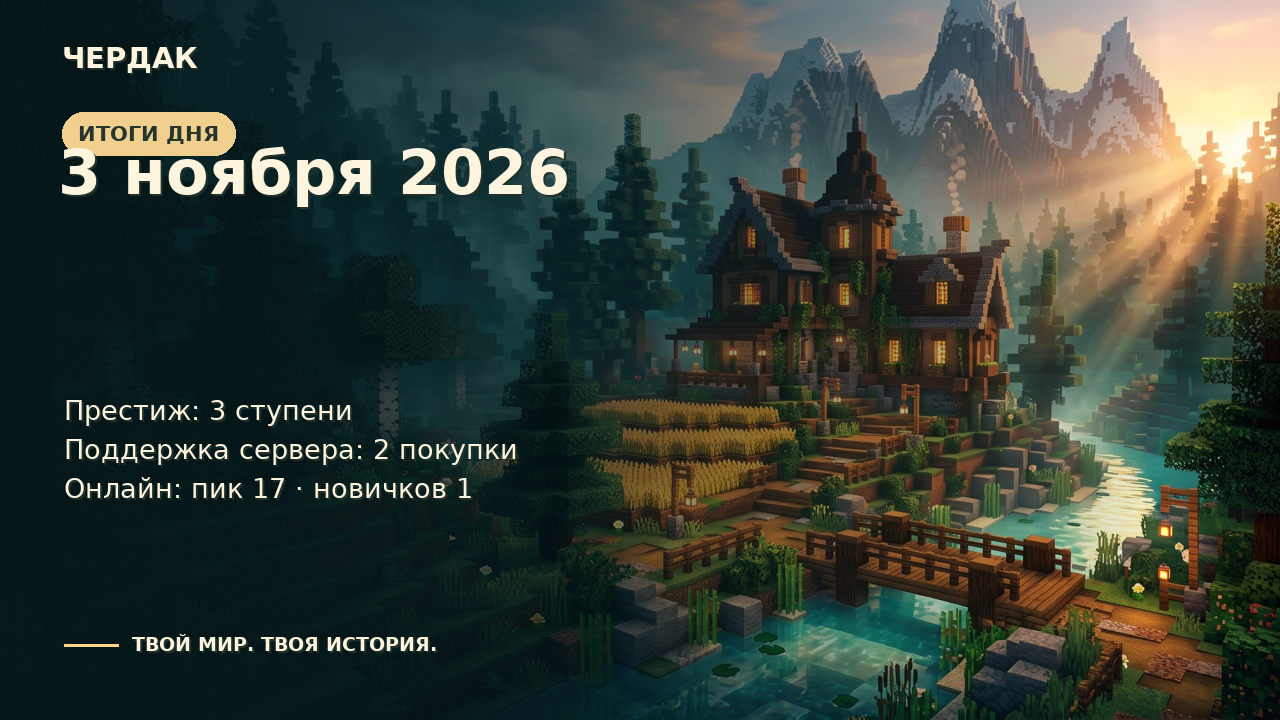
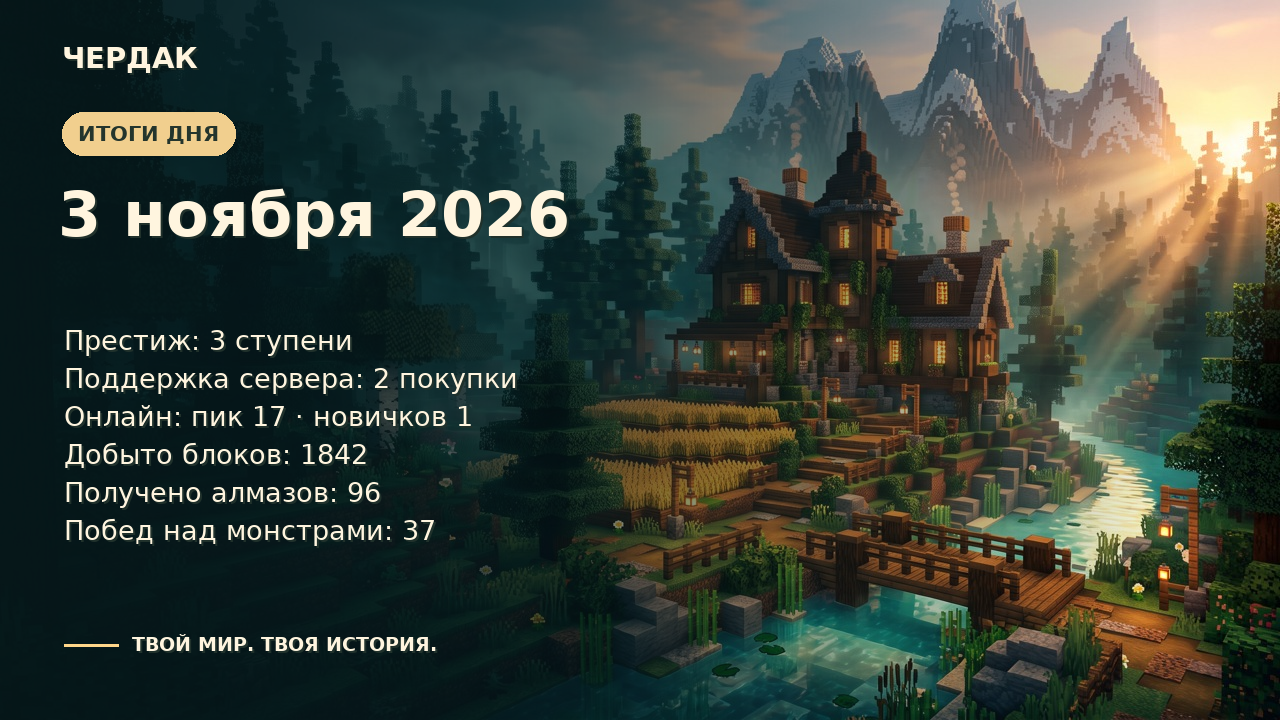
docs: обновлён пример постера с новой раскладкой и шестью метриками

Changed region(s): [[0.0312, 0.5194, 0.4062, 0.7639], [0.0312, 0.1833, 0.4688, 0.3667], [0.0312, 0.4583, 0.2812, 0.4889]]

diff --git a/docs/vk-wall-digest/README.md b/docs/vk-wall-digest/README.md
@@ -7,7 +7,9 @@
 - `preview-wall-digest.png` — постер «ИТОГИ ДНЯ» для стены сообщества. Это
   построкаовая реплика `vk/src/main/java/ru/cherdakmd/chrdkvk/WallDigestCard.java`
   на Pillow: тот же фон, градиент, шрифты из `vk/src/main/resources/assets/`,
-  координаты и данные из `WallDigestCardTest`. Локально Java2D недоступен,
+  координаты и данные из `WallDigestCardTest`. Дата нарисована ниже бейджа
+  (базовая линия 236 вместо 194), а отчёт содержит шесть блоков, включая
+  добытые блоки, алмазы и победы над монстрами. Локально Java2D недоступен,
   поэтому байты отличаются от того, что нарисует плагин на сервере, только
   сглаживанием текста.
 
